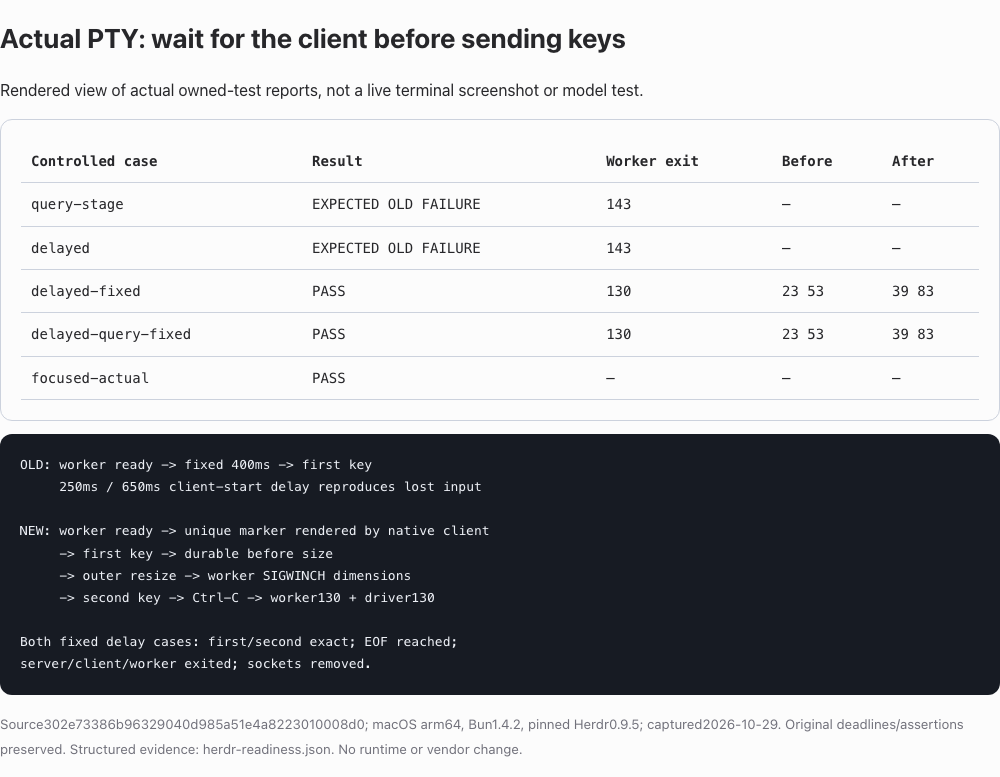
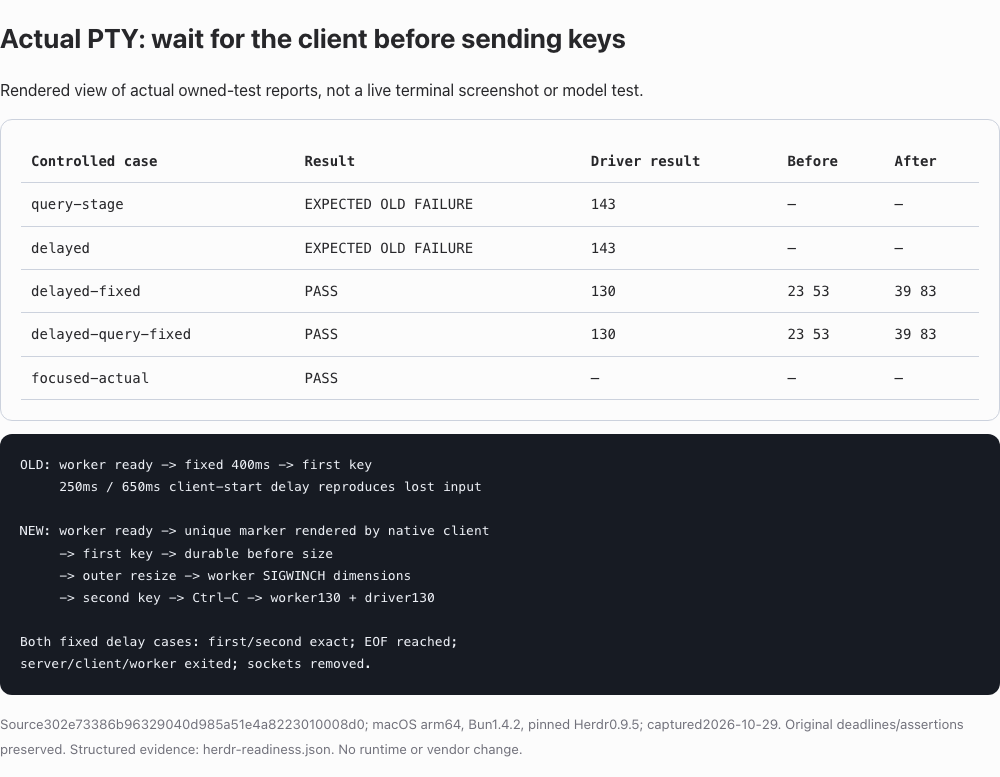
docs: correctly label observed driver return in readiness evidence

diff --git a/docs/evidence/herdr-readiness.html b/docs/evidence/herdr-readiness.html
@@ -1,4 +1,4 @@
-<!doctype html><html lang="en"><meta charset="utf-8"><title>Actual Herdr readiness evidence</title><style>body{margin:0;font:16px/1.55 system-ui;color:var(--foreground,#202634)}h1{font-size:27px}table{width:100%;border-collapse:collapse;font:14px/1.6 ui-monospace,monospace}th,td{text-align:left;padding:10px;border-bottom:1px solid #ccd2dd}section{padding:20px;border:1px solid #ccd2dd;border-radius:12px}pre{white-space:pre-wrap;font:13px/1.7 ui-monospace,monospace;background:#171b23;color:#edf0f6;padding:20px;border-radius:12px}small{color:var(--muted-foreground,#657080)}</style><h1>Actual PTY: wait for the client before sending keys</h1><p>Rendered view of actual owned-test reports, not a live terminal screenshot or model test.</p><section><table><tr><th>Controlled case</th><th>Result</th><th>Worker exit</th><th>Before</th><th>After</th></tr><tr><td>query-stage</td><td>EXPECTED OLD FAILURE</td><td>143</td><td>—</td><td>—</td></tr><tr><td>delayed</td><td>EXPECTED OLD FAILURE</td><td>143</td><td>—</td><td>—</td></tr><tr><td>delayed-fixed</td><td>PASS</td><td>130</td><td>23 53</td><td>39 83</td></tr><tr><td>delayed-query-fixed</td><td>PASS</td><td>130</td><td>23 53</td><td>39 83</td></tr><tr><td>focused-actual</td><td>PASS</td><td>—</td><td>—</td><td>—</td></tr></table></section><pre>OLD: worker ready -> fixed 400ms -> first key
+<!doctype html><html lang="en"><meta charset="utf-8"><title>Actual Herdr readiness evidence</title><style>body{margin:0;font:16px/1.55 system-ui;color:var(--foreground,#202634)}h1{font-size:27px}table{width:100%;border-collapse:collapse;font:14px/1.6 ui-monospace,monospace}th,td{text-align:left;padding:10px;border-bottom:1px solid #ccd2dd}section{padding:20px;border:1px solid #ccd2dd;border-radius:12px}pre{white-space:pre-wrap;font:13px/1.7 ui-monospace,monospace;background:#171b23;color:#edf0f6;padding:20px;border-radius:12px}small{color:var(--muted-foreground,#657080)}</style><h1>Actual PTY: wait for the client before sending keys</h1><p>Rendered view of actual owned-test reports, not a live terminal screenshot or model test.</p><section><table><tr><th>Controlled case</th><th>Result</th><th>Driver result</th><th>Before</th><th>After</th></tr><tr><td>query-stage</td><td>EXPECTED OLD FAILURE</td><td>143</td><td>—</td><td>—</td></tr><tr><td>delayed</td><td>EXPECTED OLD FAILURE</td><td>143</td><td>—</td><td>—</td></tr><tr><td>delayed-fixed</td><td>PASS</td><td>130</td><td>23 53</td><td>39 83</td></tr><tr><td>delayed-query-fixed</td><td>PASS</td><td>130</td><td>23 53</td><td>39 83</td></tr><tr><td>focused-actual</td><td>PASS</td><td>—</td><td>—</td><td>—</td></tr></table></section><pre>OLD: worker ready -> fixed 400ms -> first key
      250ms / 650ms client-start delay reproduces lost input
 
 NEW: worker ready -> unique marker rendered by native client
